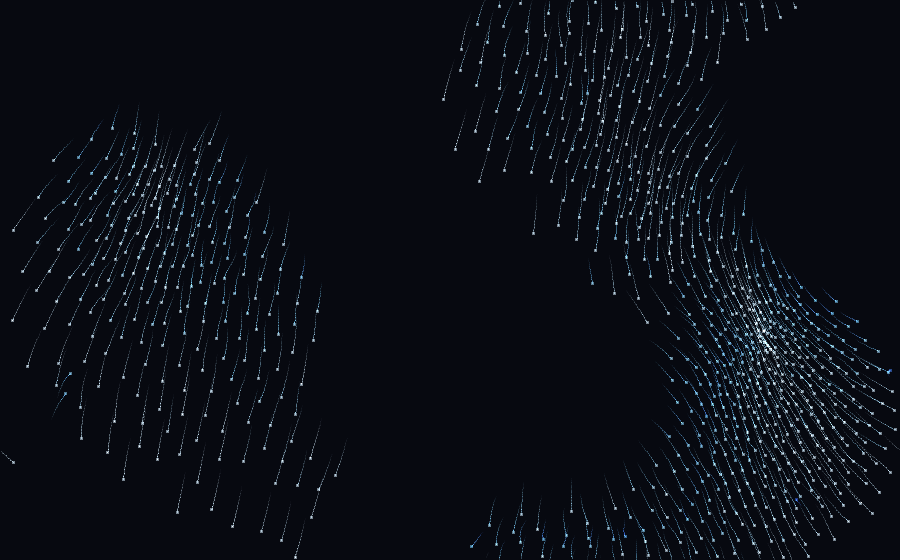
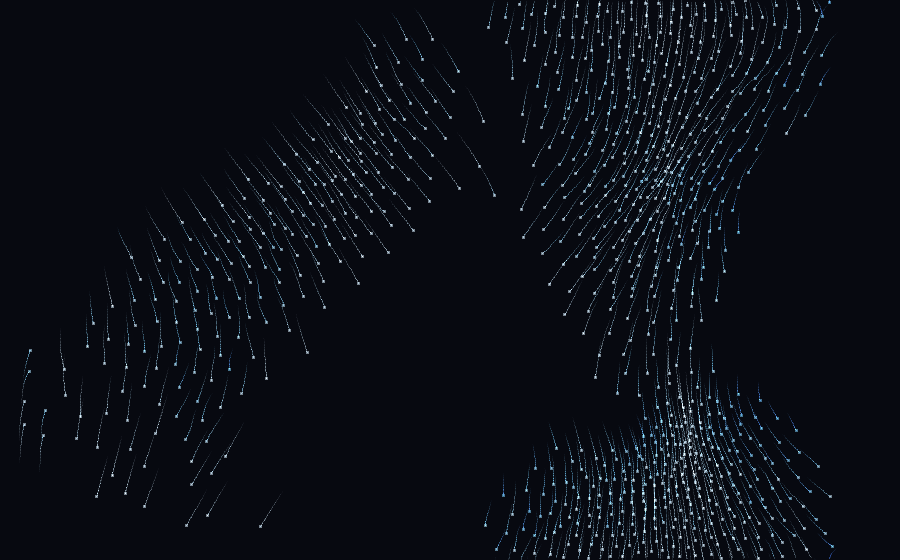
boids: handle separation radius independently of perception
Separation could exceed perception via the sliders, but the grid cell size and
neighbour cull both keyed off perception, silently capping separation. Now the
grid and cull use max(perception, separation) and each rule applies within its
own radius. Mirror the fix (and the min-speed clamp) in the Python still-image
generator.

diff --git a/boids/boids.js b/boids/boids.js
@@ -101,9 +101,11 @@ export class Flock {
   _key(cx, cy) { return cx * 73856093 ^ cy * 19349663; }
 
   _buildGrid() {
-    // Cell size tracks the largest interaction radius so each boid only needs to
-    // scan its own cell and the eight around it.
-    this.cellSize = Math.max(8, this.params.perception) * this.dpr;
+    // Cell size tracks the largest interaction radius — perception *or* personal
+    // space, whichever is bigger — so the 3x3 neighbour scan can never miss a
+    // boid that one of the rules cares about.
+    const radius = Math.max(this.params.perception, this.params.separation);
+    this.cellSize = Math.max(8, radius) * this.dpr;
     const grid = this.grid;
     grid.clear();
     const inv = 1 / this.cellSize;
@@ -128,6 +130,7 @@ export class Flock {
     const sep = p.separation * this.dpr;
     const perc2 = perc * perc;
     const sep2 = sep * sep;
+    const max2 = Math.max(perc2, sep2);   // cull radius covering both rules
     const maxSpeed = this.scaledSpeed;
     const maxForce = p.maxForce * this.dpr;
 
@@ -151,11 +154,15 @@ export class Flock {
             const dx = other.x - me.x;
             const dy = other.y - me.y;
             const d2 = dx * dx + dy * dy;
-            if (d2 > perc2 || d2 === 0) continue;
-            alignX += other.vx; alignY += other.vy; alignN++;
-            cohX += other.x; cohY += other.y; cohN++;
+            if (d2 > max2 || d2 === 0) continue;
+            // Alignment and cohesion look out to the perception radius...
+            if (d2 < perc2) {
+              alignX += other.vx; alignY += other.vy; alignN++;
+              cohX += other.x; cohY += other.y; cohN++;
+            }
+            // ...separation acts within its own (independent) personal-space
+            // radius, weighted by closeness (1/distance).
             if (d2 < sep2) {
-              // Push away, weighted by closeness (1/distance).
               const d = Math.sqrt(d2);
               sepX -= dx / d / d;
               sepY -= dy / d / d;

diff --git a/tools/gen_boids.py b/tools/gen_boids.py
@@ -67,8 +67,9 @@ def simulate():
         boids.append([rng.random() * W, rng.random() * H,
                       math.cos(a) * sp, math.sin(a) * sp])
     tails = [[] for _ in range(COUNT)]
-    cell = PERCEPTION
+    cell = max(PERCEPTION, SEPARATION)        # grid covers the larger radius
     perc2, sep2 = PERCEPTION ** 2, SEPARATION ** 2
+    max2 = max(perc2, sep2)
 
     for step in range(STEPS):
         # Spatial hash so neighbour search is near O(n).
@@ -89,11 +90,12 @@ def simulate():
                         o = boids[j]
                         dx, dy = o[0] - me[0], o[1] - me[1]
                         d2 = dx * dx + dy * dy
-                        if d2 > perc2 or d2 == 0:
+                        if d2 > max2 or d2 == 0:
                             continue
-                        ax += o[2]; ay += o[3]; an += 1
-                        cxs += o[0]; cys += o[1]; cn += 1
-                        if d2 < sep2:
+                        if d2 < perc2:        # alignment + cohesion
+                            ax += o[2]; ay += o[3]; an += 1
+                            cxs += o[0]; cys += o[1]; cn += 1
+                        if d2 < sep2:          # separation (own radius)
                             d = math.sqrt(d2)
                             sx -= dx / d / d
                             sy -= dy / d / d
@@ -109,6 +111,11 @@ def simulate():
                 fx += s[0] * SEP_W; fy += s[1] * SEP_W
             me[2] += fx; me[3] += fy
             me[2], me[3] = limit(me[2], me[3], MAX_SPEED)
+            # Match boids.js: keep a small minimum speed so nobody stalls.
+            sp = math.hypot(me[2], me[3])
+            if 0 < sp < MAX_SPEED * 0.25:
+                t = (MAX_SPEED * 0.25) / sp
+                me[2] *= t; me[3] *= t
 
         for i, me in enumerate(boids):
             me[0] = (me[0] + me[2]) % W